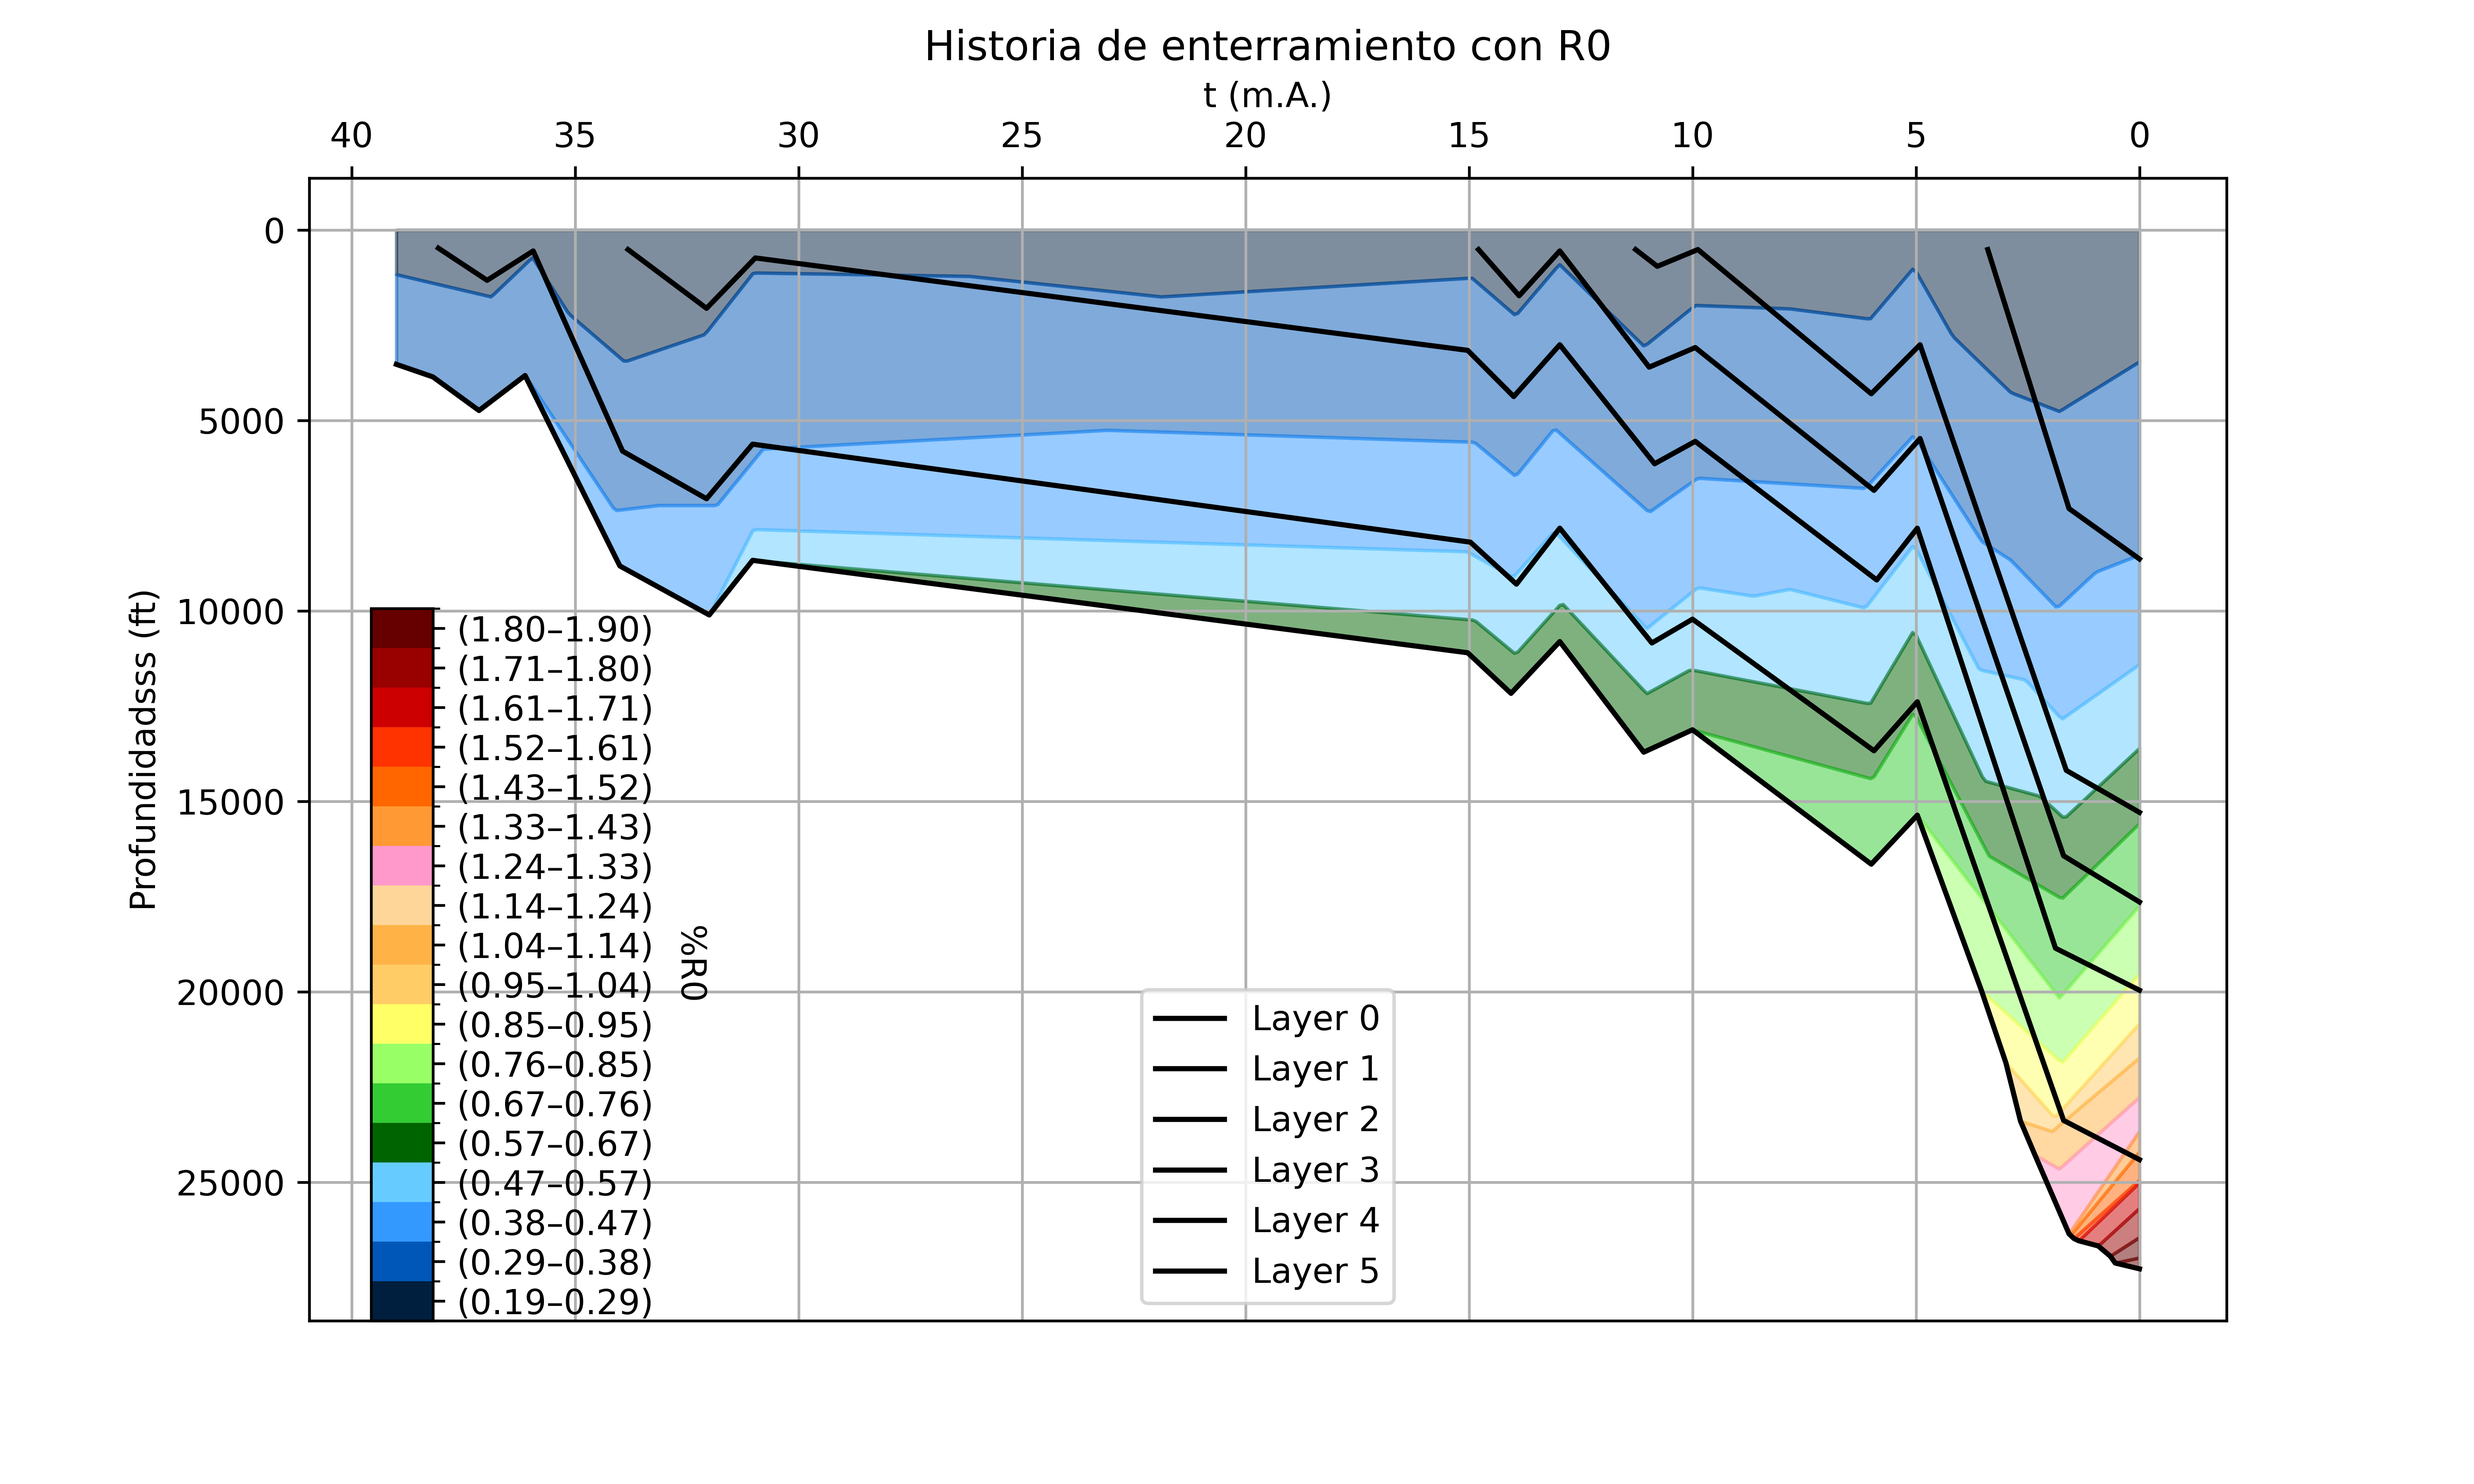
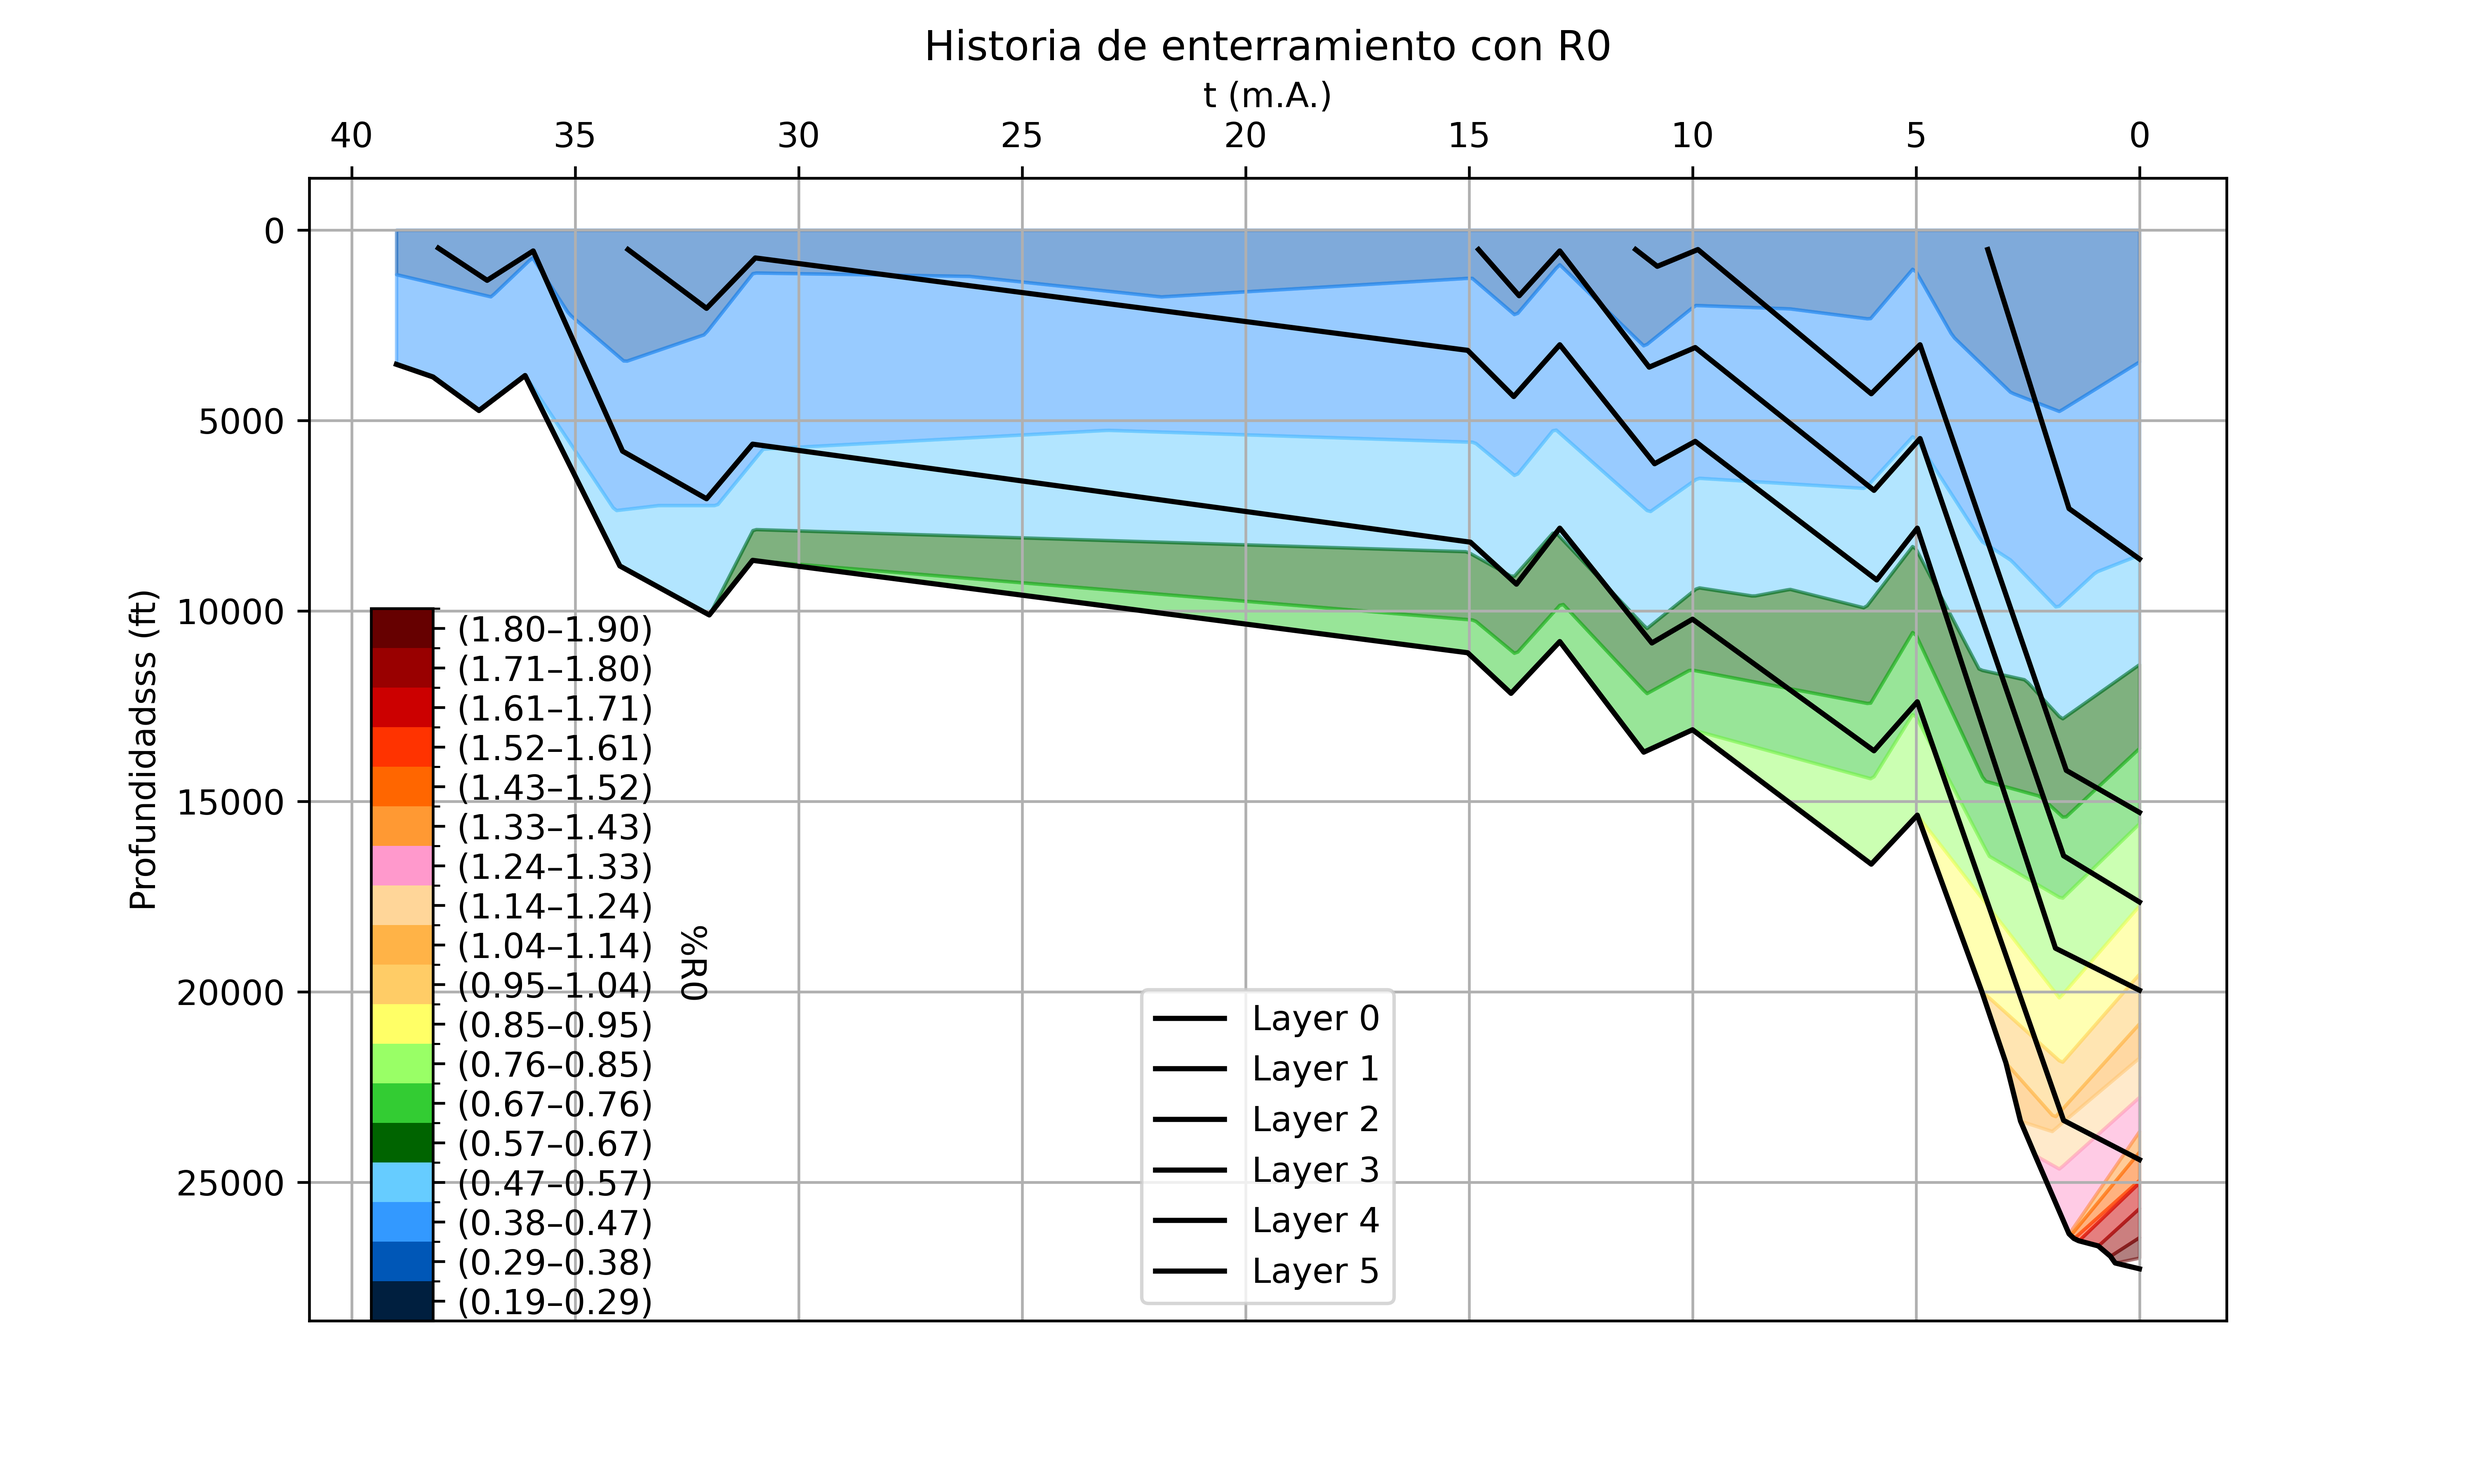
Succesfully estimated VR percentage for each geological layer

Changed region(s): [[0.1558, 0.1556, 0.8727, 0.7778]]

diff --git a/mains/data/python/plot_burial_history.py b/mains/data/python/plot_burial_history.py
@@ -149,7 +149,7 @@ def plot_burial_history_vr(folder_path1, folder_path2, output_fig):
     # Get a list of all files in the folder that match the pattern
     file_list2 = [file for file in os.listdir(folder_path2) if file.startswith("VR_") and file.endswith(".txt")]
     file_list2.sort(key=lambda x: int(x.split("_")[-1].split(".")[0]))
-    print(file_list2)
+    print(f"VR file list:\n{file_list2}")
     all_t = []
     all_Z = []
     for i, file_name in enumerate(file_list2):
@@ -170,7 +170,7 @@ def plot_burial_history_vr(folder_path1, folder_path2, output_fig):
         # Plot Z against t for each file
         plt.scatter(data["t_values"], data["Z_values"], s=1.5)
         plt.plot(data["t_values"], data["Z_values"], linewidth = 0.5, label = f"VR {file_name.split('_')[-1].split('.')[0]}")
-        print( f"{i}) VR {file_name.split('_')[-1].split('.')[0]}")
+        #print( f"{i}) VR {file_name.split('_')[-1].split('.')[0]}")
     # Customize the plot
     plt.title("R0 (%)")
     plt.xlabel("t (m.A.)")
@@ -189,12 +189,12 @@ def plot_burial_history_vr(folder_path1, folder_path2, output_fig):
     plt.savefig(output_fig, dpi=600)
     # Show the plot
     #plt.show()
-def plot_burial_history_vr_fill(folder_path1, folder_path2, output_fig):  
-    # Plot the Ro values filled
+def plot_burial_history_vr_fill(folder_path1, folder_path2, output_fig):
+    #First step: find global t-range and build a common grid
     file_list2 = [file for file in os.listdir(folder_path2) if file.startswith("VR_") and file.endswith(".txt")]
     t_common = None
-    interpolated_Z = []
-    #First pass: find global t-range and build a common grid
+    vr_interfaces = []
+    geol_interfaces = []
     t_all = []
     for file_name in file_list2:
         t_vals, Z_vals = [], []
@@ -207,9 +207,23 @@ def plot_burial_history_vr_fill(folder_path1, folder_path2, output_fig):
                 t_vals.append(t)
                 Z_vals.append(Z)
         t_all.extend(t_vals)
-    #Define common t-grid with high enough resolution
+    #Second step: Define common t-grid with high enough resolution
     t_common = np.linspace(min(t_all), max(t_all), 500)
-    #Interpolate all curves onto the common grid
+    #Third step: Interpolate all curves onto the common grid
+    file_list1_grid = [file for file in os.listdir(folder_path1) if file.startswith("grid_burial_history_layer_") and file.endswith(".txt")]
+    for file_name in file_list1_grid:
+        t_vals, Z_vals = [], []
+        file_path = os.path.join(folder_path1, file_name)
+        with open(file_path, 'r') as file:
+            for line in file:
+                if line.startswith("#"):
+                    continue
+                t, Z = map(float, line.strip().split())
+                t_vals.append(t)
+                Z_vals.append(Z)
+        f_interp = interp1d(t_vals, Z_vals, bounds_error=False, fill_value="extrapolate")
+        geol_interfaces.append(f_interp(t_common))
+
     for file_name in file_list2:
         t_vals, Z_vals = [], []
         file_path = os.path.join(folder_path2, file_name)
@@ -221,12 +235,57 @@ def plot_burial_history_vr_fill(folder_path1, folder_path2, output_fig):
                 t_vals.append(t)
                 Z_vals.append(Z)
         f_interp = interp1d(t_vals, Z_vals, bounds_error=False, fill_value="extrapolate")
-        interpolated_Z.append(f_interp(t_common))
+        vr_interfaces.append(f_interp(t_common))
+    
+    # Move vr_interfaces[9] to position 0
+    item = vr_interfaces.pop(9)  # Remove item at index 9
+    vr_interfaces.insert(0, item)  # Insert it at the beginning to fix re-ordering problem visually identified
+
+    ########## Compute areas individually /begin/ ##########
+    def compute_area(t, bottom_curve, top_curve):
+        height = top_curve - bottom_curve
+        area = np.trapz(height, t)
+        return area
+    # Step 1: compute VR areas
+    vr_areas = []
+    for j in range(len(vr_interfaces) - 1):
+        area = compute_area(t_common, vr_interfaces[j], vr_interfaces[j + 1])
+        vr_areas.append(area)
+    print(f"VR areas=\n{vr_areas}")
+    # Step 2: compute geological areas
+    geol_areas = []
+    for i in range(len(geol_interfaces) - 1):
+        area = compute_area(t_common, geol_interfaces[i], geol_interfaces[i + 1])
+        geol_areas.append(area)
+    print(f"Geological areas=\n{geol_areas}")
+    # Step 3: Compute intersection areas
+    overlap_percentages = np.zeros((len(geol_areas), len(vr_areas)))
+    for i in range(len(geol_interfaces) - 1):
+        geo_bottom = geol_interfaces[i]
+        geo_top = geol_interfaces[i + 1]
+        for j in range(len(vr_interfaces) - 1):
+            vr_bottom = vr_interfaces[j]
+            vr_top = vr_interfaces[j + 1]
+            bottom_overlap = np.maximum(geo_bottom, vr_bottom)
+            top_overlap = np.minimum(geo_top, vr_top)
+            #If no overlap (top < bottom), clip heights to zero
+            overlap_height = np.clip(top_overlap - bottom_overlap, a_min=0, a_max=None)
+            overlap_area = np.trapz(overlap_height, t_common)
+            if geol_areas[i] > 0:
+                overlap_percentages[i, j] = (overlap_area / geol_areas[i]) * 100
+            else:
+                overlap_percentages[i, j] = 0 #Avoid division by zero
+    print(f"Overlap percentages (VR range inside each geological layer):\n{overlap_percentages}")
+    col_sums = np.sum(overlap_percentages, axis = 1)
+    print(f"Just checking column sums {col_sums}. Should be 100%")
+    ########## Compute areas individually /end/ ##########
     
     #Plot and fill between layers
     plt.figure(figsize=(10, 6))
-    n_layers = len(interpolated_Z)
-    print(f"Number of layers = {n_layers}")
+    """ for i in range(len(geol_interfaces)):
+        plt.plot(t_common, geol_interfaces[i], label = f"Layer grid {i}") """
+    """ for i in range(len(vr_interfaces)):
+        plt.plot(t_common, vr_interfaces[i], label = f"Interface {i}") """
     colors = [
     '#001f3f',  # 1. dark blue
     '#0057b7',  # 2. cobalt blue
@@ -270,57 +329,15 @@ def plot_burial_history_vr_fill(folder_path1, folder_path2, output_fig):
 
     #cmap = mcolors.LinearSegmentedColormap.from_list("BlueGreenRed", ["blue", "green", "red"], N= n_layers)
     #cmap = plt.cm.jet
-    """ for i in range(0, len(interpolated_Z)):
-        plt.plot(t_common, interpolated_Z[i], label = f"Interface {i}") """
-    """ plt.plot(t_common, interpolated_Z[0], label = f'Interface [0]')
-    plt.plot(t_common, interpolated_Z[1], label = f'Interface [1]')
-    plt.plot(t_common, interpolated_Z[2], label = f'Interface [2]')
-    plt.plot(t_common, interpolated_Z[3], label = f'Interface [3]')
-    plt.plot(t_common, interpolated_Z[4], label = f'Interface [4]')
-    plt.plot(t_common, interpolated_Z[5], label = f'Interface [5]')
-    plt.plot(t_common, interpolated_Z[6], label = f'Interface [6]')
-    plt.plot(t_common, interpolated_Z[7], label = f'Interface [7]')
-    plt.plot(t_common, interpolated_Z[8], label = f'Interface [8]')
-    plt.plot(t_common, interpolated_Z[9], label = f'Interface [9]')
-    plt.plot(t_common, interpolated_Z[10], label = f'Interface [10]')
-    plt.plot(t_common, interpolated_Z[11], label = f'Interface [11]')
-    plt.plot(t_common, interpolated_Z[12], label = f'Interface [12]')
-    plt.plot(t_common, interpolated_Z[13], label = f'Interface [13]')
-    plt.plot(t_common, interpolated_Z[14], label = f'Interface [14]')
-    plt.plot(t_common, interpolated_Z[15], label = f'Interface [15]')
-    plt.plot(t_common, interpolated_Z[16], label = f'Interface [16]')
-    plt.plot(t_common, interpolated_Z[17], label = f'Interface [17]')
-    plt.plot(t_common, interpolated_Z[18], label = f'Interface [18]') """
-
-
     cmap = mcolors.ListedColormap(colors)
-    plt.fill_between(t_common, interpolated_Z[9], interpolated_Z[0], color = colors[0], alpha = 0.5)#cmap(0) colors[0]
-    plt.fill_between(t_common, interpolated_Z[0], interpolated_Z[1], color = colors[1], alpha = 0.5)#cmap(0) colors[0]
-    plt.fill_between(t_common, interpolated_Z[1], interpolated_Z[2], color = colors[2], alpha = 0.5)#cmap(0) colors[0]
-    plt.fill_between(t_common, interpolated_Z[2], interpolated_Z[3], color = colors[3], alpha = 0.5)#cmap(0) colors[0]
-    plt.fill_between(t_common, interpolated_Z[3], interpolated_Z[4], color = colors[4], alpha = 0.5)#cmap(0) colors[0]
-    plt.fill_between(t_common, interpolated_Z[4], interpolated_Z[5], color = colors[5], alpha = 0.5)#cmap(0) colors[0]
-    plt.fill_between(t_common, interpolated_Z[5], interpolated_Z[6], color = colors[6], alpha = 0.5)#cmap(0) colors[0]
-    plt.fill_between(t_common, interpolated_Z[6], interpolated_Z[7], color = colors[7], alpha = 0.5)#cmap(0) colors[0]
-    plt.fill_between(t_common, interpolated_Z[7], interpolated_Z[8], color = colors[8], alpha = 0.5)#cmap(0) colors[0]
-    plt.fill_between(t_common, interpolated_Z[8], interpolated_Z[10], color = colors[9], alpha = 0.5)#cmap(0) colors[0]
-    #plt.fill_between(t_common, interpolated_Z[9], interpolated_Z[10], color = colors[10], alpha = 0.5)#cmap(0) colors[0]
-    plt.fill_between(t_common, interpolated_Z[10], interpolated_Z[11], color = colors[11], alpha = 0.5)#cmap(0) colors[0]
-    plt.fill_between(t_common, interpolated_Z[11], interpolated_Z[12], color = colors[12], alpha = 0.5)#cmap(0) colors[0]
-    plt.fill_between(t_common, interpolated_Z[12], interpolated_Z[13], color = colors[13], alpha = 0.5)#cmap(0) colors[0]
-    plt.fill_between(t_common, interpolated_Z[13], interpolated_Z[14], color = colors[14], alpha = 0.5)#cmap(0) colors[0]
-    plt.fill_between(t_common, interpolated_Z[14], interpolated_Z[15], color = colors[15], alpha = 0.5)#cmap(0) colors[0]
-    plt.fill_between(t_common, interpolated_Z[15], interpolated_Z[16], color = colors[16], alpha = 0.5)#cmap(0) colors[0]
-    plt.fill_between(t_common, interpolated_Z[16], interpolated_Z[17], color = colors[17], alpha = 0.5)#cmap(0) colors[0]
-    plt.fill_between(t_common, interpolated_Z[17], interpolated_Z[18], color = colors[17], alpha = 0.5)#cmap(0) colors[0]
     # Fill between each pair
-    """ for i in range(1, len(interpolated_Z) - 1):
-        plt.fill_between(t_common, interpolated_Z[i-1], interpolated_Z[i],
-                     color= colors[i], alpha=0.5)#colors[i % len(colors)] cmap(i / (n_layers - 1)) """
+    for i in range(1, len(vr_interfaces) - 1):
+        plt.fill_between(t_common, vr_interfaces[i-1], vr_interfaces[i],
+                     color= colors[i], alpha=0.5)#colors[i % len(colors)] cmap(i / (n_layers - 1))
     
     #Plot burial history
     file_list = [file for file in os.listdir(folder_path1) if file.startswith("burial_history_layer_") and file.endswith(".txt")]
-    print(file_list)
+    print(f"Burial history file list:\n{file_list}")
     # Sort the file list based on the layer number
     file_list.sort(key=lambda x: int(x.split("_")[-1].split(".")[0]))
     for file_name in file_list:
@@ -336,6 +353,7 @@ def plot_burial_history_vr_fill(folder_path1, folder_path2, output_fig):
                 data["Z_values"].append(Z)
         # Plot Z against t for each file
         plt.plot(data["t_values"], data["Z_values"], c = 'k', label=f"Layer {file_name.split('_')[-1].split('.')[0]}")
+    
     # Customize the plot
     plt.title("Historia de enterramiento con R0")
     plt.xlabel("t (m.A.)")
